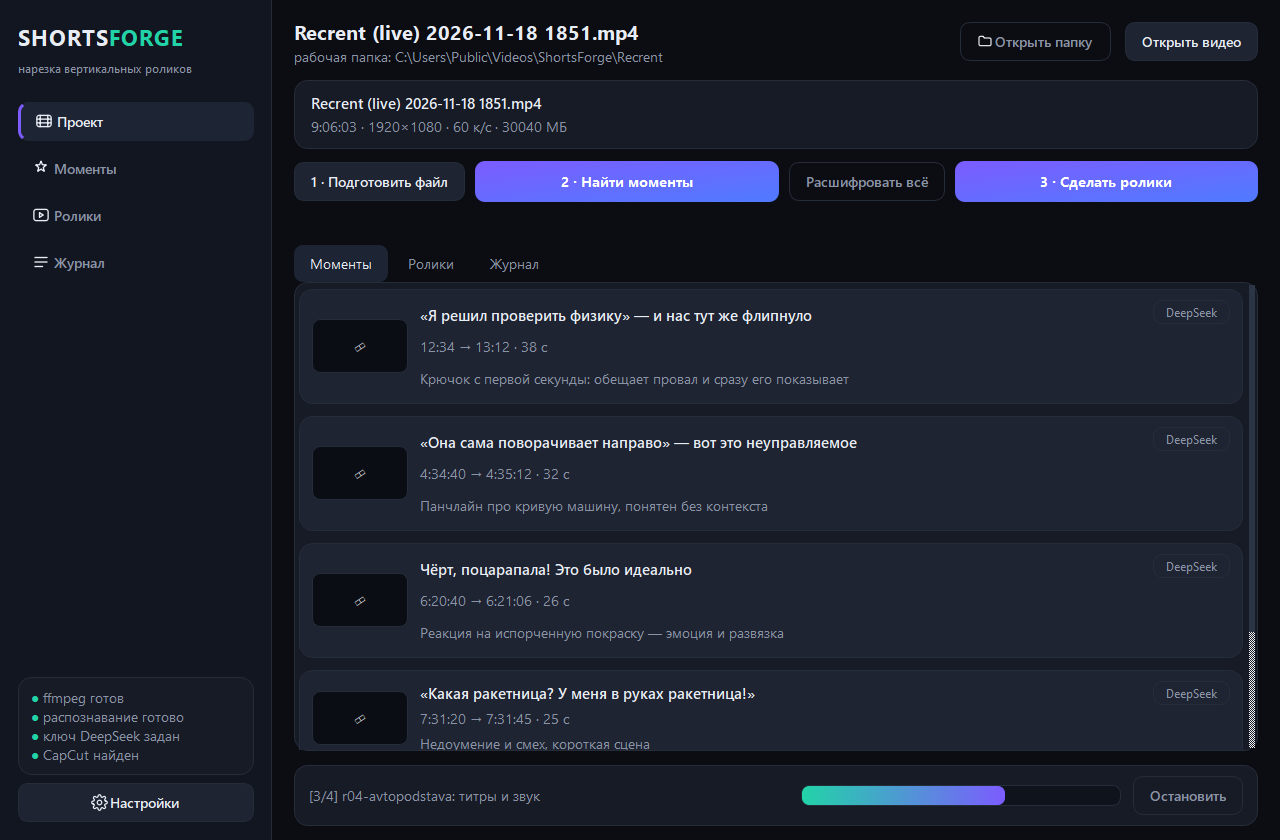
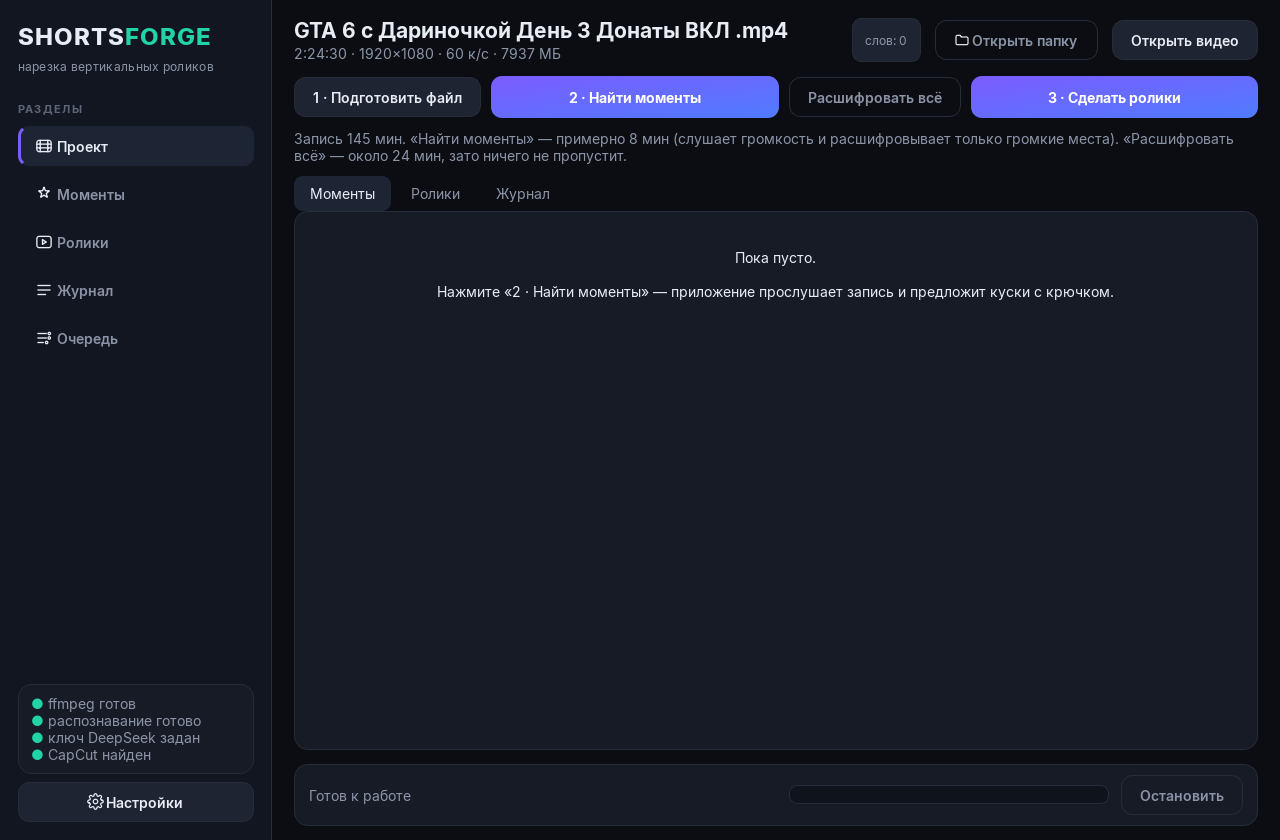
1.1: починен левый раздел, не падает при открытии подготовленной записи, обновлено оформление

diff --git a/shortsforge/ui/main_window.py b/shortsforge/ui/main_window.py
@@ -11,10 +11,10 @@ from pathlib import Path
 from PySide6.QtCore import Qt, QTimer, QUrl
 from PySide6.QtCore import QSize
 from PySide6.QtGui import QColor, QDesktopServices, QFont, QIcon
-from PySide6.QtWidgets import (QApplication, QFileDialog, QFrame, QHBoxLayout, QLabel,
-                               QListWidget, QListWidgetItem, QMessageBox, QPlainTextEdit,
-                               QProgressBar, QPushButton, QScrollArea, QSizePolicy,
-                               QStackedWidget, QTabWidget, QVBoxLayout, QWidget)
+from PySide6.QtWidgets import (QApplication, QButtonGroup, QFileDialog, QFrame, QHBoxLayout,
+                               QLabel, QListWidget, QListWidgetItem, QMessageBox,
+                               QPlainTextEdit, QProgressBar, QPushButton, QScrollArea,
+                               QSizePolicy, QStackedWidget, QTabWidget, QVBoxLayout, QWidget)
 
 from ..core import batch, capcut, media, pipeline, resources
 from ..core.config import Settings, get as get_settings
@@ -24,6 +24,13 @@ from .settings_dialog import SettingsDialog
 from .widgets import DropArea, MomentCard, badge
 
 APP_TITLE = "ShortsForge — нарезка вертикальных роликов"
+
+
+def _nice_name(name: str) -> str:
+    """Имя файла для показа: без эмодзи — на Windows 10 они рисуются пустыми квадратами."""
+    clean = "".join(ch for ch in name if ord(ch) < 0x2190)
+    clean = " ".join(clean.split())
+    return clean or name
 
 
 class MainWindow(QWidget):
@@ -61,14 +68,22 @@ class MainWindow(QWidget):
         tag.setObjectName("Tagline")
         lay.addWidget(logo)
         lay.addWidget(tag)
-        lay.addSpacing(18)
+        lay.addSpacing(20)
 
+        section = QLabel("РАЗДЕЛЫ")
+        section.setObjectName("Section")
+        lay.addWidget(section)
+        lay.addSpacing(2)
+
+        self.nav_group = QButtonGroup(self)
+        self.nav_group.setExclusive(True)
         self.nav_project = self._nav_button("Проект", 0, "icon-project")
         self.nav_moments = self._nav_button("Моменты", 1, "icon-moments")
         self.nav_clips = self._nav_button("Ролики", 2, "icon-clips")
         self.nav_log = self._nav_button("Журнал", 3, "icon-log")
         self.nav_queue = self._nav_button("Очередь", 4, "icon-queue")
         for b in (self.nav_project, self.nav_moments, self.nav_clips, self.nav_log, self.nav_queue):
+            self.nav_group.addButton(b)
             lay.addWidget(b)
         lay.addStretch(1)
 
@@ -121,6 +136,11 @@ class MainWindow(QWidget):
         titles.addWidget(self.h_title)
         titles.addWidget(self.h_sub)
         header.addLayout(titles, 1)
+
+        # значки состояния живут в шапке: раньше они дублировали имя файла отдельной карточкой
+        self.badges = QHBoxLayout()
+        self.badges.setSpacing(8)
+        header.addLayout(self.badges)
 
         self.open_btn = QPushButton("Открыть видео")
         self.open_btn.clicked.connect(self._pick_file)
@@ -222,25 +242,6 @@ class MainWindow(QWidget):
         lay.setContentsMargins(0, 0, 0, 0)
         lay.setSpacing(12)
 
-        self.info_card = QFrame()
-        self.info_card.setObjectName("Card")
-        i_lay = QHBoxLayout(self.info_card)
-        i_lay.setContentsMargins(16, 12, 16, 12)
-        i_lay.setSpacing(12)
-        info_col = QVBoxLayout()
-        info_col.setSpacing(4)
-        self.file_name = QLabel("—")
-        self.file_name.setObjectName("H2")
-        self.file_meta = QLabel("")
-        self.file_meta.setObjectName("Muted")
-        info_col.addWidget(self.file_name)
-        info_col.addWidget(self.file_meta)
-        i_lay.addLayout(info_col, 1)
-        self.badges = QHBoxLayout()
-        self.badges.setSpacing(8)
-        i_lay.addLayout(self.badges)
-        lay.addWidget(self.info_card)
-
         steps = QHBoxLayout()
         steps.setSpacing(10)
         self.btn_prepare = QPushButton("1 · Подготовить файл")
@@ -316,24 +317,31 @@ class MainWindow(QWidget):
 
     # --- страницы -------------------------------------------------------------
     def _set_page(self, index: int) -> None:
+        """Переключение раздела. Раньше здесь менялись только вкладки, а сама страница
+        оставалась прежней: из очереди было не выйти, и меню выглядело мёртвым."""
         for i, b in enumerate((self.nav_project, self.nav_moments, self.nav_clips,
                                self.nav_log, self.nav_queue)):
             b.setChecked(i == index)
-        if index != 4 and self.prj and self.prj.info:
-            self.h_title.setText(self.prj.source.name if self.prj.source else "Проект")
-            self.h_sub.setText(self.prj.info.as_text())
+
         if index == 4:
             self.stack.setCurrentIndex(2)
             self.h_title.setText("Очередь записей")
-            self.h_sub.setText("поставьте несколько записей — обработаются по очереди, "
-                              "даже если закрыть окно")
+            self.h_sub.setText("")
             self._refresh_queue()
-        elif index == 3:
-            self.tabs.setCurrentIndex(2)
-        elif index == 2:
-            self.tabs.setCurrentIndex(1)
-        elif index == 1:
-            self.tabs.setCurrentIndex(0)
+            return
+
+        has_project = bool(self.prj and self.prj.info)
+        self.stack.setCurrentIndex(1 if has_project else 0)
+        if has_project:
+            full = self.prj.source.name if self.prj.source else "Проект"
+            self.h_title.setText(_nice_name(full))
+            self.h_title.setToolTip(full)
+            self.h_sub.setText(self.prj.info.as_text())
+        else:
+            self.h_title.setText("Новый проект")
+            self.h_sub.setText("перетащите запись стрима, приложение сделает из неё "
+                               "вертикальные ролики")
+        self.tabs.setCurrentIndex({0: 0, 1: 0, 2: 1, 3: 2}.get(index, 0))
 
     # --- работа с задачей -----------------------------------------------------
     def _run(self, func, on_done=None, label: str = "") -> None:
@@ -417,11 +425,7 @@ class MainWindow(QWidget):
             except OSError:
                 pass
         self._refresh_recent()
-        self.stack.setCurrentIndex(1)
-        self.h_title.setText(Path(path).name)
-        self.h_sub.setText(f"рабочая папка: {work}")
-        self.file_name.setText(Path(path).name)
-        self.file_meta.setText(info.as_text())
+        self._set_page(0)
         self.selected = {}
         self._refresh_badges()
         self._update_hint()
@@ -593,8 +597,11 @@ class MainWindow(QWidget):
             self.moments_list.addItem(item)
             self.moments_list.setItemWidget(item, card)
         if not moments:
-            item = QListWidgetItem("Пока пусто: отберите моменты на шаге 3 или загрузите проект.")
+            item = QListWidgetItem("Пока пусто.\n\nНажмите «2 · Найти моменты» — приложение "
+                                   "прослушает запись и предложит куски с крючком.")
             item.setFlags(Qt.NoItemFlags)
+            item.setTextAlignment(Qt.AlignCenter)
+            item.setSizeHint(QSize(0, 120))
             self.moments_list.addItem(item)
 
     def _render_clips(self, clips: list[dict]) -> None:
@@ -629,7 +636,7 @@ class MainWindow(QWidget):
             cover.setPixmap(QPixmap(str(img)).scaled(96, 54, Qt.KeepAspectRatioByExpanding,
                                                      Qt.SmoothTransformation))
         else:
-            cover.setText("🎞")
+            cover.setText("▸")
         row.addWidget(cover)
 
         col = QVBoxLayout()
@@ -673,7 +680,7 @@ class MainWindow(QWidget):
         recent = [p for p in self.cfg.recent_files if Path(p).exists()][:6]
         self.recent_empty.setVisible(not recent)
         for path in recent:
-            btn = QPushButton(f"🎞  {Path(path).name}")
+            btn = QPushButton(f"▸   {Path(path).name}")
             btn.setObjectName("Ghost")
             btn.setToolTip(path)
             btn.setStyleSheet("text-align:left; padding:8px 12px;")
@@ -686,20 +693,21 @@ class MainWindow(QWidget):
         page = QWidget()
         lay = QVBoxLayout(page)
         lay.setContentsMargins(0, 0, 0, 0)
-        lay.setSpacing(12)
+        lay.setSpacing(14)
 
-        head = QHBoxLayout()
+        head = QFrame()
+        head.setObjectName("Card")
+        head_lay = QHBoxLayout(head)
+        head_lay.setContentsMargins(18, 16, 18, 16)
+        head_lay.setSpacing(10)
         titles = QVBoxLayout()
-        titles.setSpacing(2)
-        title = QLabel("Очередь на ночь")
-        title.setObjectName("H1")
+        titles.setSpacing(4)
         sub = QLabel("Добавьте записи — приложение обработает их по очереди и соберёт ролики "
                      "в папку вывода. Можно закрыть окно и вернуться утром.")
         sub.setObjectName("Muted")
         sub.setWordWrap(True)
-        titles.addWidget(title)
         titles.addWidget(sub)
-        head.addLayout(titles, 1)
+        head_lay.addLayout(titles, 1)
 
         self.btn_q_add = QPushButton("Добавить записи")
         self.btn_q_start = QPushButton("Запустить очередь")
@@ -710,17 +718,30 @@ class MainWindow(QWidget):
         self.btn_q_clear = QPushButton("Убрать готовые")
         self.btn_q_clear.setObjectName("Ghost")
         for b in (self.btn_q_add, self.btn_q_start, self.btn_q_stop, self.btn_q_clear):
-            head.addWidget(b)
-        lay.addLayout(head)
+            b.setMinimumHeight(38)
+            head_lay.addWidget(b)
+        lay.addWidget(head)
 
         self.btn_q_add.clicked.connect(self._queue_add_files)
         self.btn_q_start.clicked.connect(self._queue_start)
         self.btn_q_stop.clicked.connect(self._cancel)
         self.btn_q_clear.clicked.connect(self._queue_clear)
 
+        body = QFrame()
+        body.setObjectName("Card")
+        body_lay = QVBoxLayout(body)
+        body_lay.setContentsMargins(10, 10, 10, 10)
+        body_lay.setSpacing(8)
         self.queue_list = QListWidget()
-        self.queue_list.setSpacing(2)
-        lay.addWidget(self.queue_list, 1)
+        self.queue_list.setSpacing(3)
+        body_lay.addWidget(self.queue_list, 1)
+        self.queue_empty = QLabel("Очередь пуста.\n\nНажмите «Добавить записи» — можно выбрать "
+                                  "сразу несколько файлов.")
+        self.queue_empty.setObjectName("Empty")
+        self.queue_empty.setAlignment(Qt.AlignCenter)
+        self.queue_empty.setWordWrap(True)
+        body_lay.addWidget(self.queue_empty, 1)
+        lay.addWidget(body, 1)
 
         self.queue_hint = QLabel("")
         self.queue_hint.setObjectName("Muted")
@@ -764,16 +785,20 @@ class MainWindow(QWidget):
                 text += "   ·   " + " · ".join(extra)
             row = QListWidgetItem(text)
             row.setToolTip(item.path)
+            row.setSizeHint(QSize(0, 40))
             if item.status == batch.STATUS_FAIL:
                 row.setForeground(QColor(theme.DANGER))
             elif item.status == batch.STATUS_DONE:
                 row.setForeground(QColor(theme.ACCENT2))
             self.queue_list.addItem(row)
+        empty = not self.queue.items
+        self.queue_list.setVisible(not empty)
+        self.queue_empty.setVisible(empty)
         pending = len(self.queue.pending())
         self.queue_hint.setText(
             f"записей в очереди: {len(self.queue.items)} · ждут запуска: {pending}"
             if self.queue.items else
-            "Пусто. Добавьте записи — обработаются по очереди, без вашего участия.")
+            "Пока пусто — можно добавить сразу несколько записей.")
 
     def _queue_start(self) -> None:
         if not self.queue.pending():

diff --git a/tests/test_units.py b/tests/test_units.py
@@ -126,9 +126,35 @@ def test_settings() -> None:
     cfg._api_key = ""
 
 
+def test_estimate() -> None:
+    """Регрессия: открытие уже подготовленной записи падало на оценке времени.
+
+    `estimate_full_minutes` брала длительность у путей к кускам, а у Path её нет —
+    приложение вылетало с AttributeError сразу после открытия файла.
+    """
+    print("оценка времени расшифровки")
+    from types import SimpleNamespace
+
+    from shortsforge.core import pipeline
+
+    prj = SimpleNamespace(
+        parts=[SimpleNamespace(duration=600.0), SimpleNamespace(duration=300.0)],
+        info=SimpleNamespace(duration=999.0),
+    )
+    minutes = pipeline.estimate_full_minutes(prj)
+    check("куски суммируются", abs(minutes - (900.0 / 6.0 / 60)) < 0.01, f"получили {minutes}")
+
+    prj_empty = SimpleNamespace(parts=[], info=SimpleNamespace(duration=3600.0))
+    minutes2 = pipeline.estimate_full_minutes(prj_empty)
+    check("без кусков берётся длительность файла", abs(minutes2 - 10.0) < 0.01, f"получили {minutes2}")
+
+    prj_none = SimpleNamespace(parts=[], info=None)
+    check("без данных не падает", pipeline.estimate_full_minutes(prj_none) == 0.0)
+
+
 def main() -> int:
     for test in (test_captions, test_censor, test_drop_popped, test_verify,
-                 test_deepseek_parse, test_analysis, test_settings):
+                 test_deepseek_parse, test_analysis, test_settings, test_estimate):
         test()
     print(f"\nвсе проверки прошли: {passed}")
     return 0

diff --git a/shortsforge/ui/theme.py b/shortsforge/ui/theme.py
@@ -93,16 +93,28 @@ QFrame#DropArea[drag="true"] {{
     background: #16202a;
 }}
 QLabel#Logo {{
-    font-size: 22px;
+    font-size: 24px;
     font-weight: 800;
     letter-spacing: 1px;
 }}
 QLabel#Tagline {{
     color: {MUTED};
     font-size: 12px;
+    letter-spacing: 0.3px;
+}}
+QLabel#Section {{
+    color: #5c6678;
+    font-size: 11px;
+    font-weight: 700;
+    letter-spacing: 1.4px;
+}}
+QLabel#Empty {{
+    color: {MUTED};
+    font-size: 15px;
+    line-height: 1.5;
 }}
 QLabel#H1 {{
-    font-size: 20px;
+    font-size: 21px;
     font-weight: 700;
 }}
 QLabel#H2 {{
@@ -139,9 +151,10 @@ QLabel#BadgeBad {{
 QPushButton {{
     background: {CARD_HI};
     border: 1px solid {BORDER};
-    border-radius: 10px;
-    padding: 9px 16px;
+    border-radius: 11px;
+    padding: 10px 18px;
     font-weight: 600;
+    min-height: 18px;
 }}
 QPushButton:hover {{
     background: #263041;
@@ -160,7 +173,7 @@ QPushButton#Primary {{
                                 stop:0 {ACCENT}, stop:1 #4f7bff);
     border: none;
     color: white;
-    padding: 11px 22px;
+    padding: 12px 24px;
     font-weight: 700;
 }}
 QPushButton#Primary:hover {{
@@ -183,8 +196,9 @@ QPushButton#Ghost:hover {{
 QPushButton#Nav {{
     background: transparent;
     border: none;
+    border-left: 3px solid transparent;
     border-radius: 10px;
-    padding: 10px 14px;
+    padding: 11px 14px;
     text-align: left;
     color: {MUTED};
     font-weight: 600;

diff --git a/shortsforge/core/pipeline.py b/shortsforge/core/pipeline.py
@@ -311,8 +311,15 @@ def _transcribe_slice(tr: Transcriber, video, start: float, end: float, base_abs
 
 
 def estimate_full_minutes(prj: Project, speed_factor: float = 6.0) -> float:
-    """Сколько примерно займёт полная расшифровка (для подсказки в интерфейсе)."""
-    total = sum(p.duration for p in prj.part_files()) if prj.parts else 0.0
+    """Сколько примерно займёт полная расшифровка (для подсказки в интерфейсе).
+
+    Длительность берём у кусков (у них есть .duration), а не у путей к ним:
+    на путях приложение падало при открытии уже подготовленной записи.
+    """
+    if prj.parts:
+        total = sum(p.duration for p in prj.parts)
+    else:
+        total = prj.info.duration if prj.info else 0.0
     return total / max(0.5, speed_factor) / 60
 
 

diff --git a/shortsforge/__init__.py b/shortsforge/__init__.py
@@ -1,4 +1,5 @@
 """ShortsForge — нарезка вертикальных роликов из длинных записей."""
 
-__version__ = "1.0.0"
+__version__ = "1.1.0"
 __all__ = ["__version__"]
+
